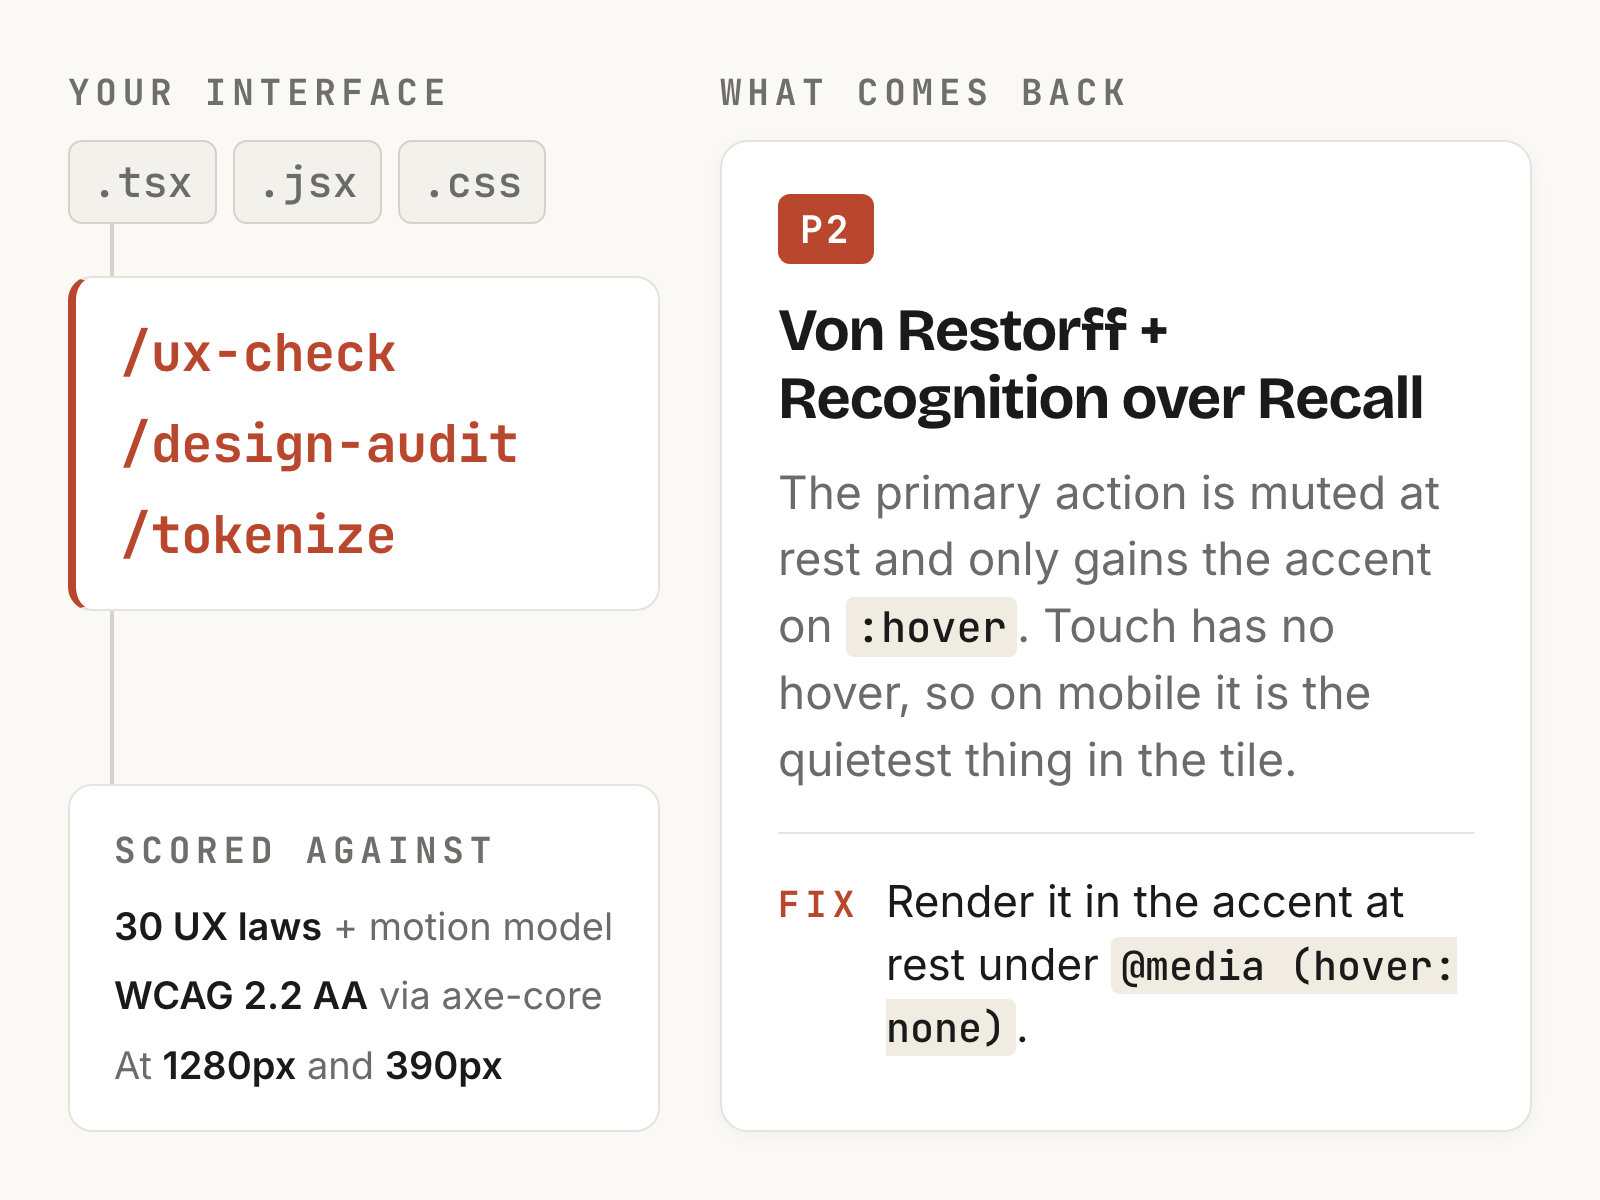
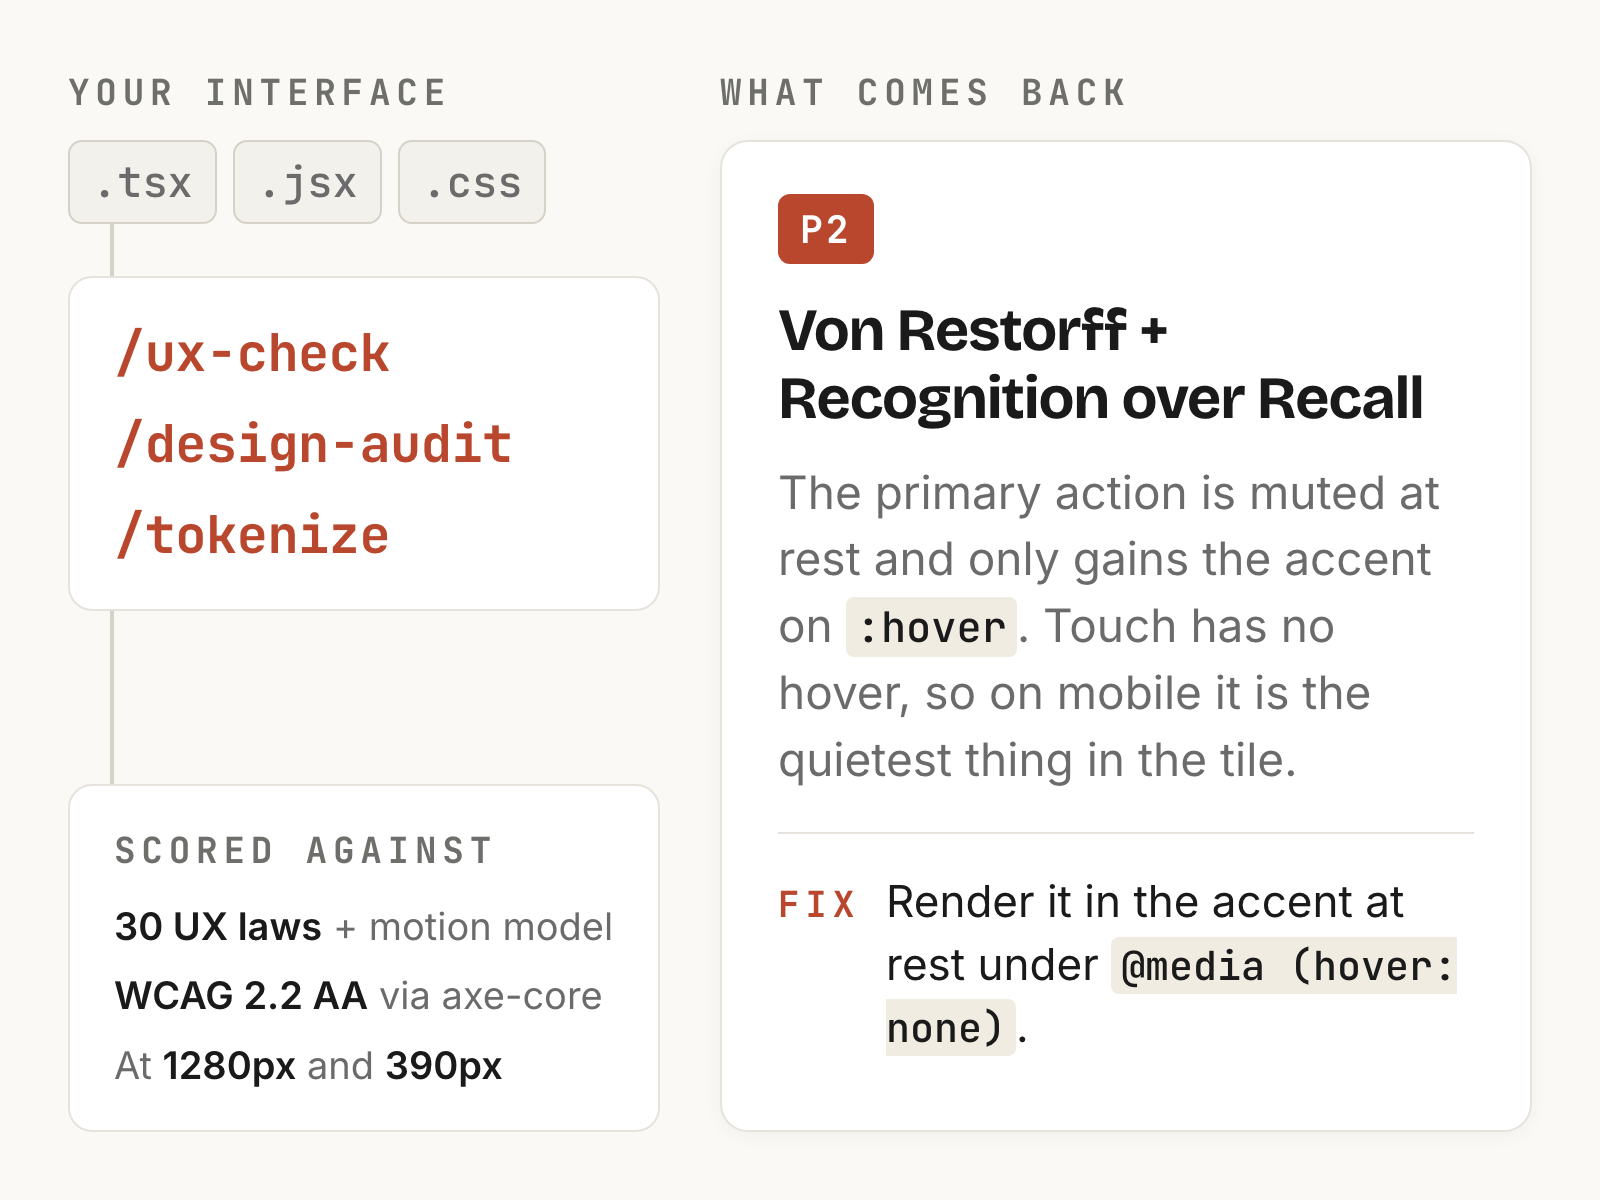
fix: drop the accent side-tab from the card diagram
A thick coloured left border on a card is the loudest AI-UI tell there
is, and it is a bad one to ship inside the card image for a tool that
audits exactly that. The commands are already the boldest, largest, and
only accent-coloured element in the rail, so the border carried no
information the type was not already carrying.

Claude-Session: https://claude.ai/code/session_01SXGxFA5WnUnU7u6WpJT23u

Changed region(s): [[0.0312, 0.2467, 0.3125, 0.4933]]

diff --git a/frontend-tools.source.html b/frontend-tools.source.html
@@ -96,8 +96,10 @@
     padding: 20px 22px;
   }
 
+  /* No accent side-tab here. The commands are already the boldest, largest,
+     only-accent-coloured thing in the rail; a thick left border would add no
+     information and is the loudest AI-UI tell there is. */
   .commands {
-    border-left: 4px solid var(--accent);
     display: flex;
     flex-direction: column;
     gap: 11px;
